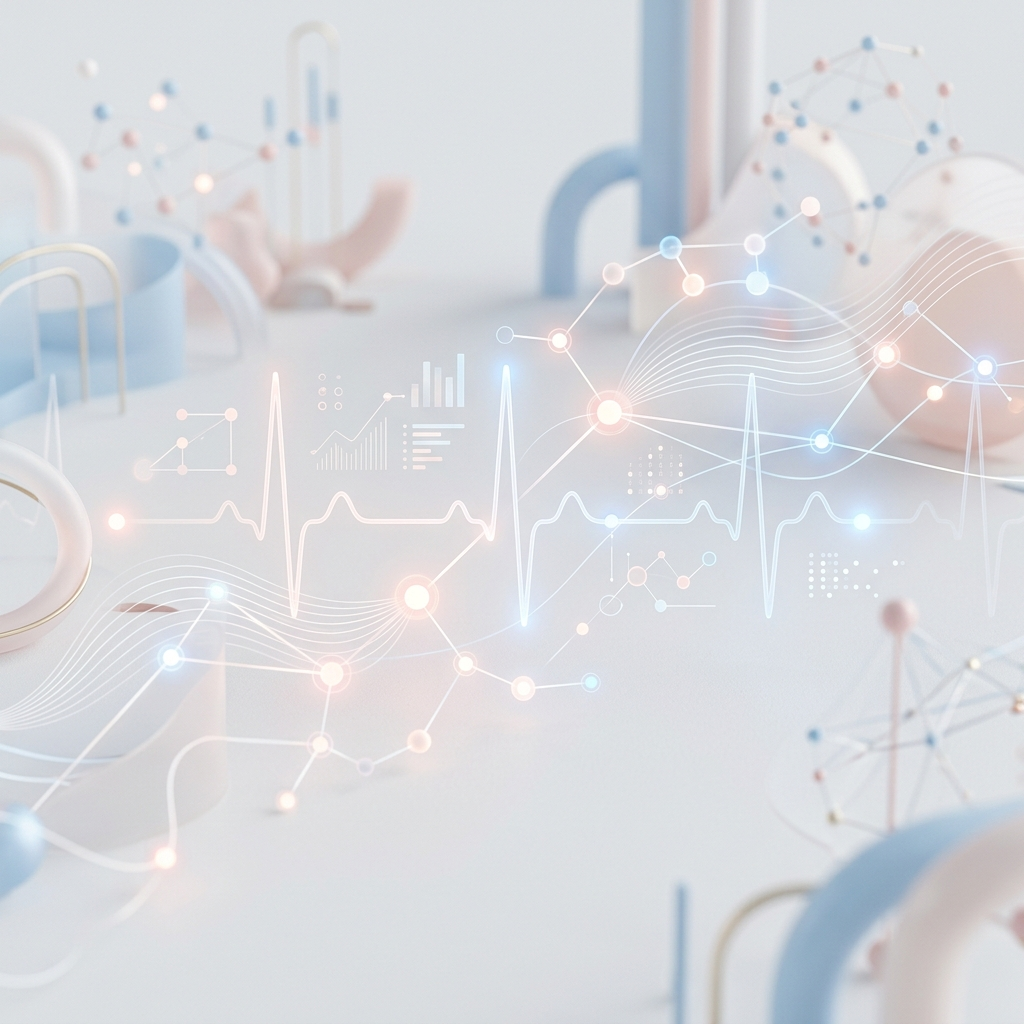
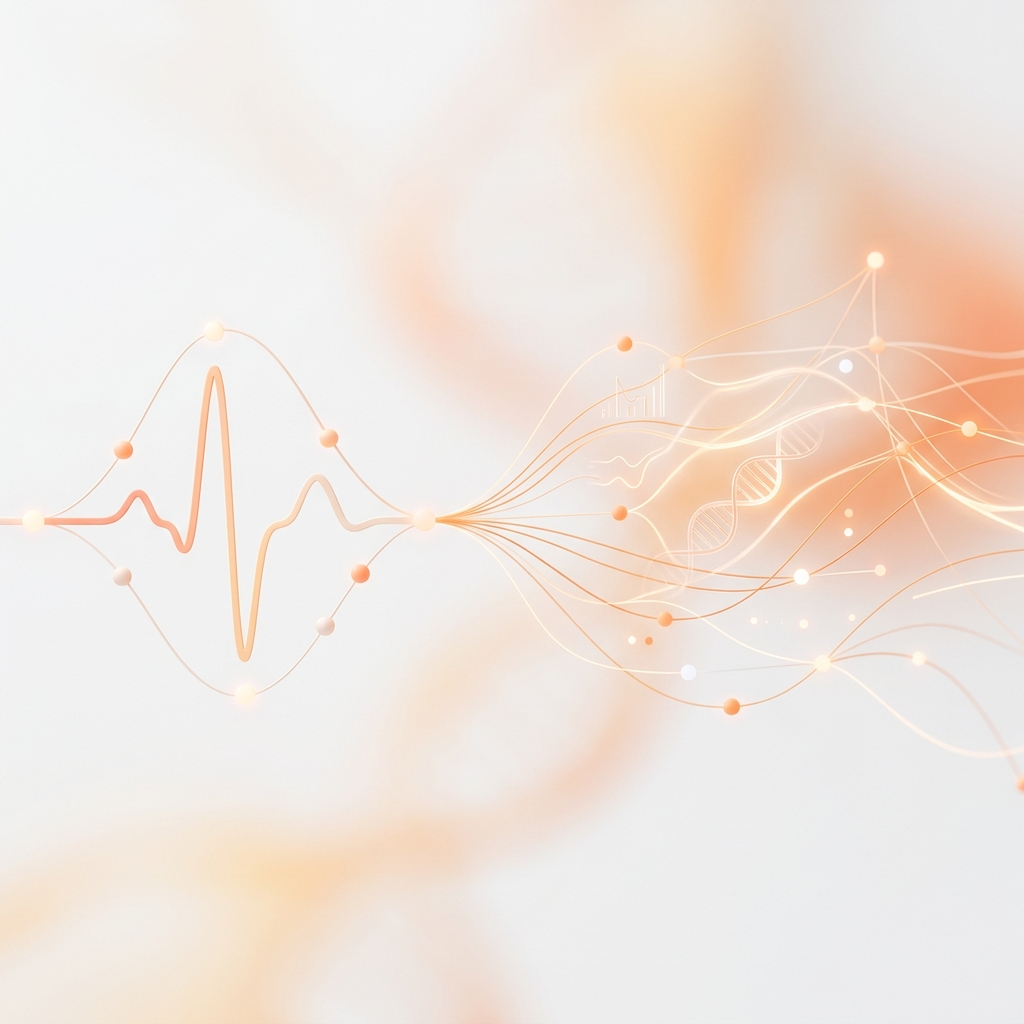
fondo home naranja pastel de contraste, paleta terracotas elegantes

diff --git a/style.css b/style.css
@@ -1,16 +1,16 @@
 :root {
-    --primary: #2c3e50;
-    --secondary: #8ab6d6;
-    --accent: #d4a5a5;
-    --accent-light: #f4e8e8;
-    --bg-light: #fcfdfe;
+    --primary: #2a2522;
+    --secondary: #e07f56;
+    --accent: #eeb18a;
+    --accent-light: #fae4d7;
+    --bg-light: #fcf8f5;
     --bg-white: #ffffff;
-    --text-main: #3b4252;
-    --text-muted: #738290;
-    --border: #e8ecef;
-    --shadow-sm: 0 1px 3px rgba(44, 62, 80, 0.05);
-    --shadow-md: 0 4px 6px -1px rgba(44, 62, 80, 0.05), 0 2px 4px -1px rgba(44, 62, 80, 0.03);
-    --shadow-lg: 0 10px 15px -3px rgba(44, 62, 80, 0.05), 0 4px 6px -2px rgba(44, 62, 80, 0.03);
+    --text-main: #4a423e;
+    --text-muted: #7d726c;
+    --border: #ece3db;
+    --shadow-sm: 0 1px 3px rgba(42, 37, 34, 0.05);
+    --shadow-md: 0 4px 6px -1px rgba(42, 37, 34, 0.05), 0 2px 4px -1px rgba(42, 37, 34, 0.03);
+    --shadow-lg: 0 10px 15px -3px rgba(42, 37, 34, 0.05), 0 4px 6px -2px rgba(42, 37, 34, 0.03);
     --font-main: 'Inter', sans-serif;
     --transition: all 0.3s cubic-bezier(0.4, 0, 0.2, 1);
 }
@@ -661,9 +661,10 @@ footer {
     align-items: center;
     justify-content: center;
     text-align: center;
-    background: linear-gradient(to bottom, rgba(252, 253, 254, 0.9), rgba(252, 253, 254, 1)), url('hero_bg.png') no-repeat center center/cover;
+    background: linear-gradient(to bottom, rgba(252, 248, 245, 0.65), rgba(252, 248, 245, 0.85)), url('hero_bg.png') no-repeat center center/cover;
     position: relative;
     padding: 120px 2rem 4rem;
+    border-bottom: 2px solid var(--border);
 }
 
 .hero-fullscreen-content {
